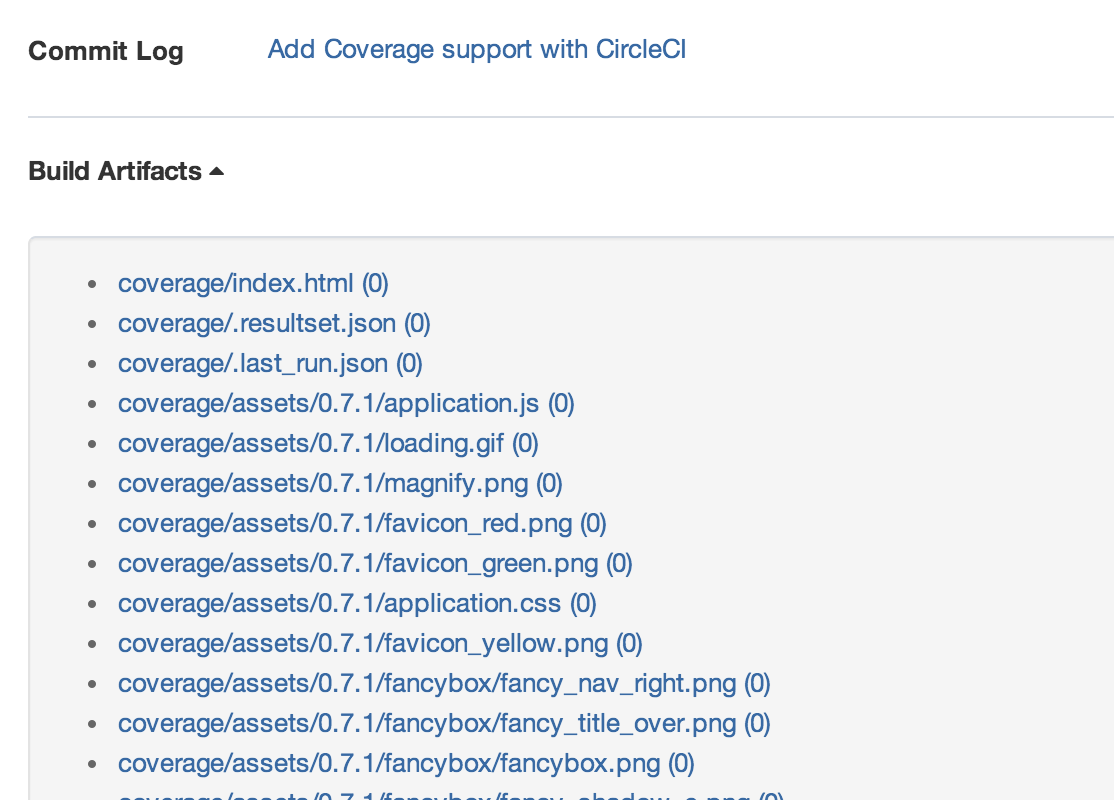
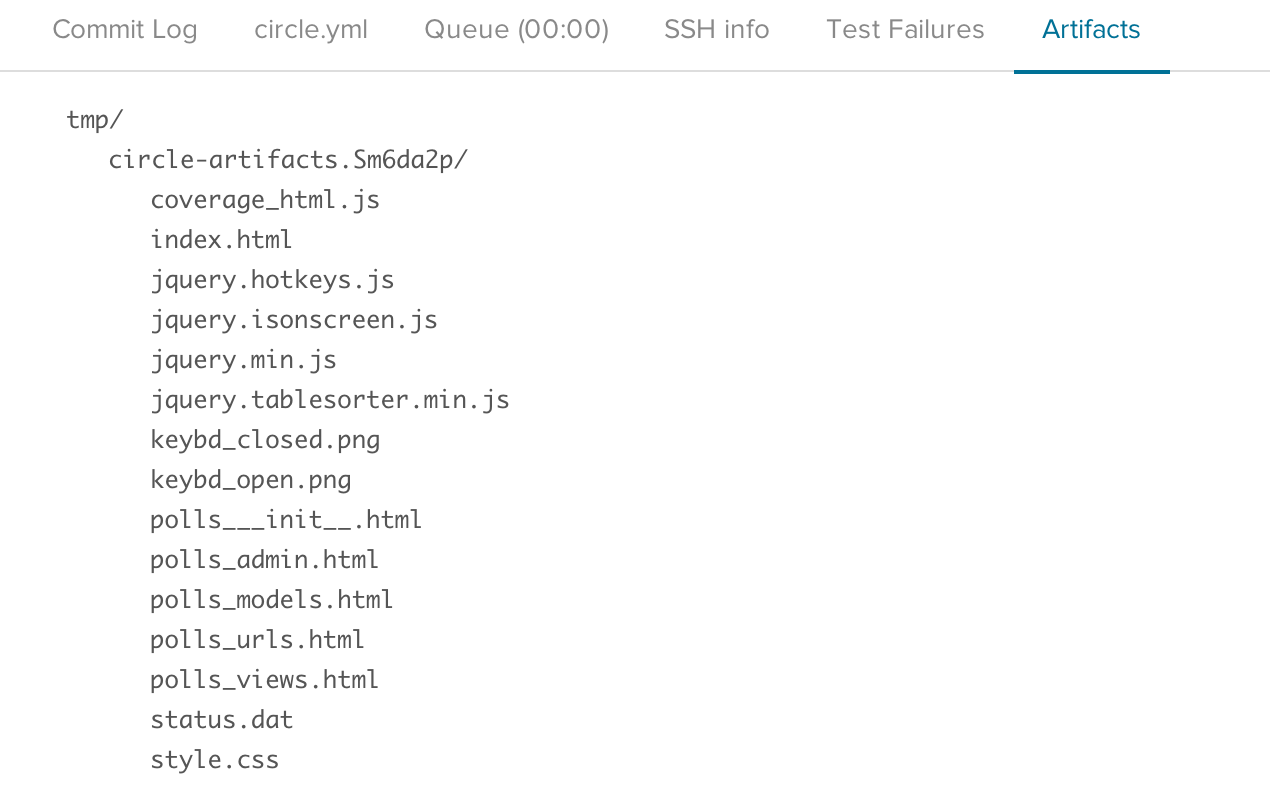
Update Artifacts screenshot

diff --git a/docs/code-coverage.md b/docs/code-coverage.md
@@ -70,8 +70,8 @@ to copy your artifacts into the [artifacts directory](/docs/build-artifacts).
 
 ### Seeing the results in the CircleCI UI
 
-We will upload your coverage files, which will allow you view them from your build page.
-These are available via a dropdown in your build:
+We will upload your coverage files, which will allow you view them from the "Artifacts"
+tab on the build page:
 
 ![](asset://img/outer/docs/artifacts_listing.png)
 
